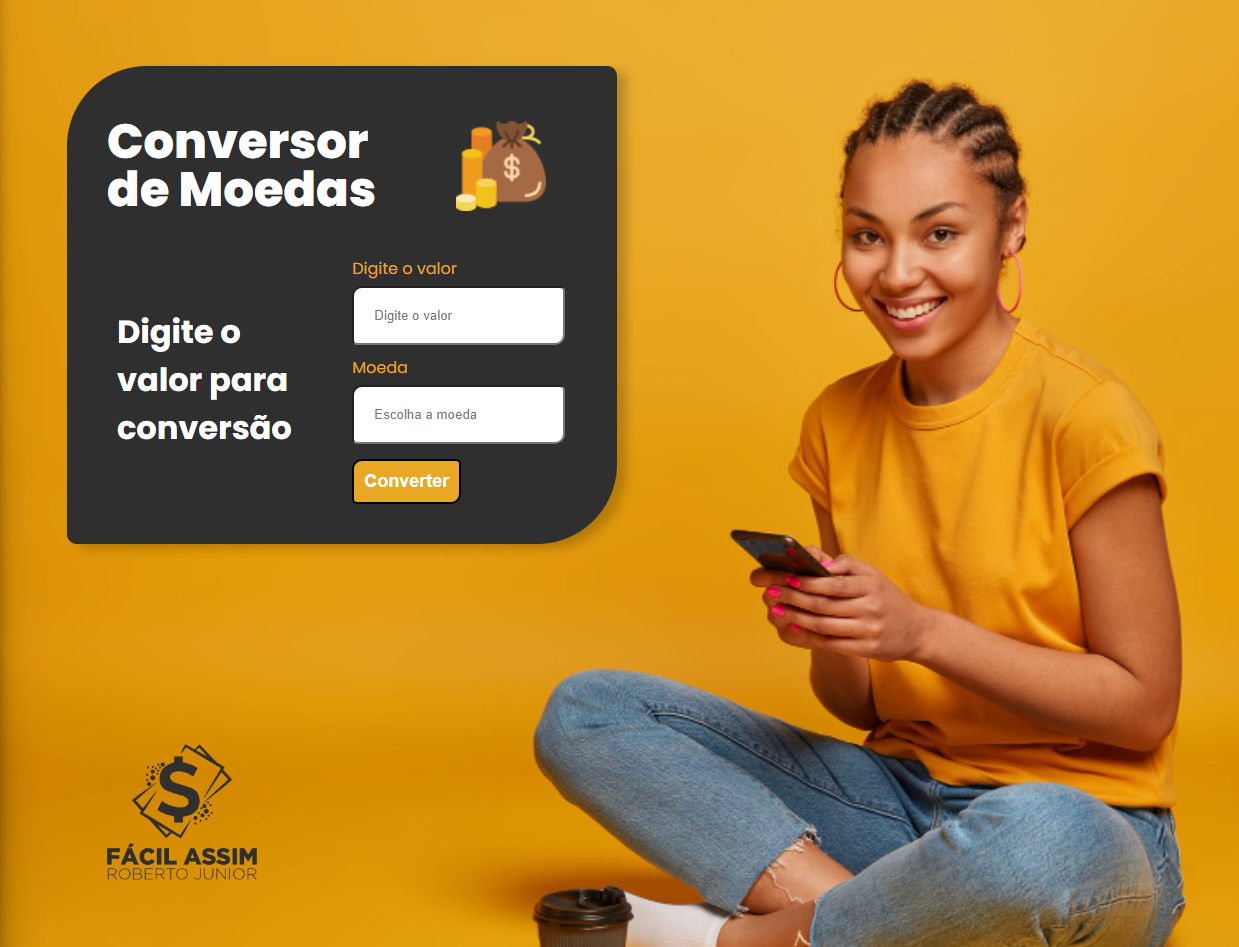
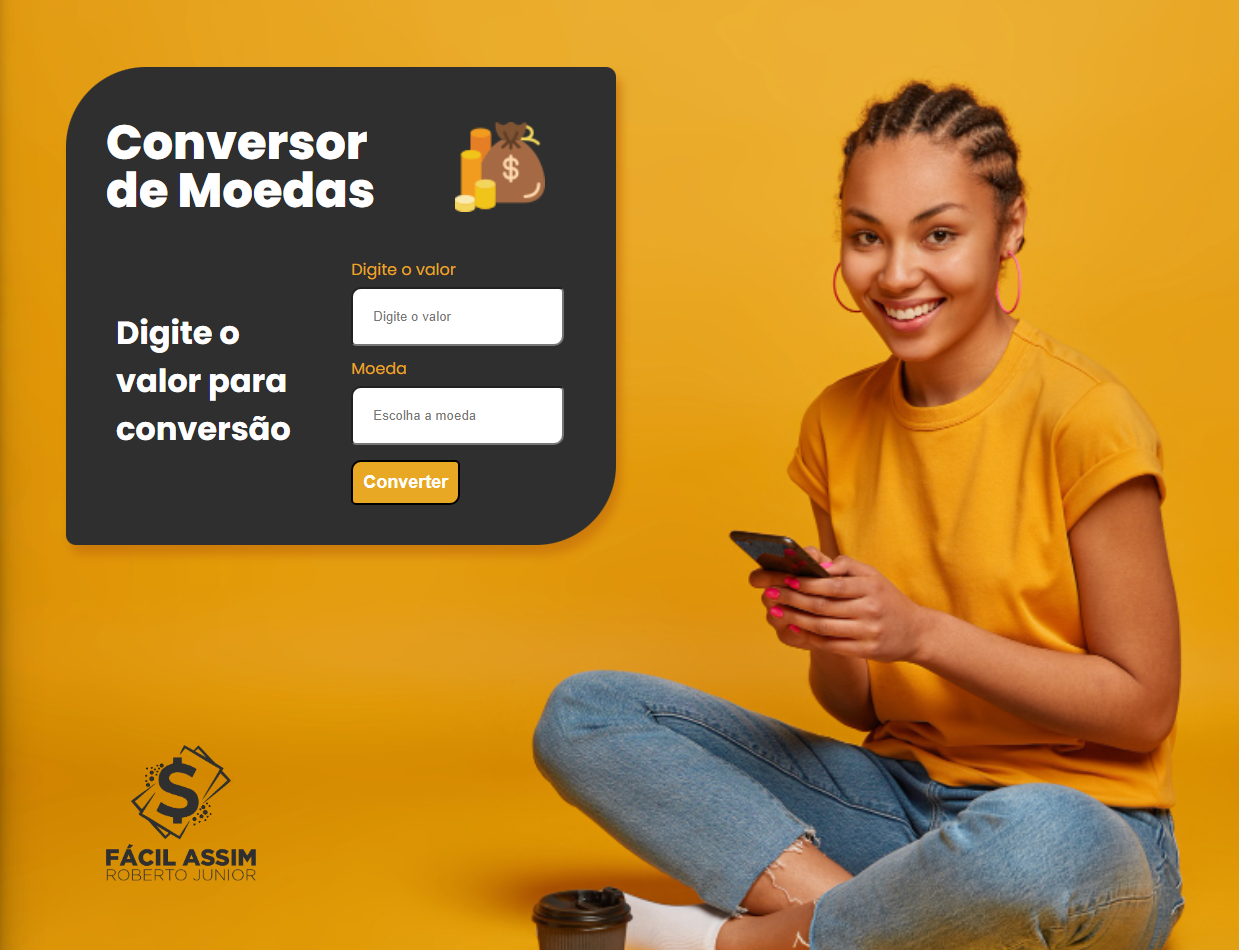
update

diff --git a/style.css b/style.css
@@ -20,7 +20,7 @@ main {
   display: flex;
   align-items: center; 
   flex-direction: column;
-  box-shadow: 10px 5px 10px rgba(0, 0, 0, 0.20);
+  box-shadow: 5px 10px 10px rgba(202, 119, 11, 0.842);
 }
 
 #titulo-programa {
